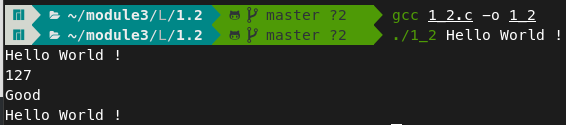
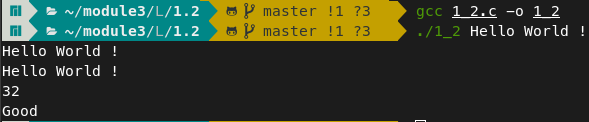
fix_finish_1_2

Changed region(s): [[0.0, 0.0, 0.9912, 0.8115], [0.0, 0.8607, 0.7509, 1.0]]

diff --git a/Les1/1.2/1_2.c b/Les1/1.2/1_2.c
@@ -10,9 +10,9 @@ void SUCCESS(){
 }
 
 int main(int argc, char *argv[]){
-    pid_t pid = fork();
+    pid_t pid;
     int rv;
-    switch(pid){
+    switch(pid = fork()){
         case -1:
             perror("Fail fork\n");
             exit(EXIT_FAILURE);
